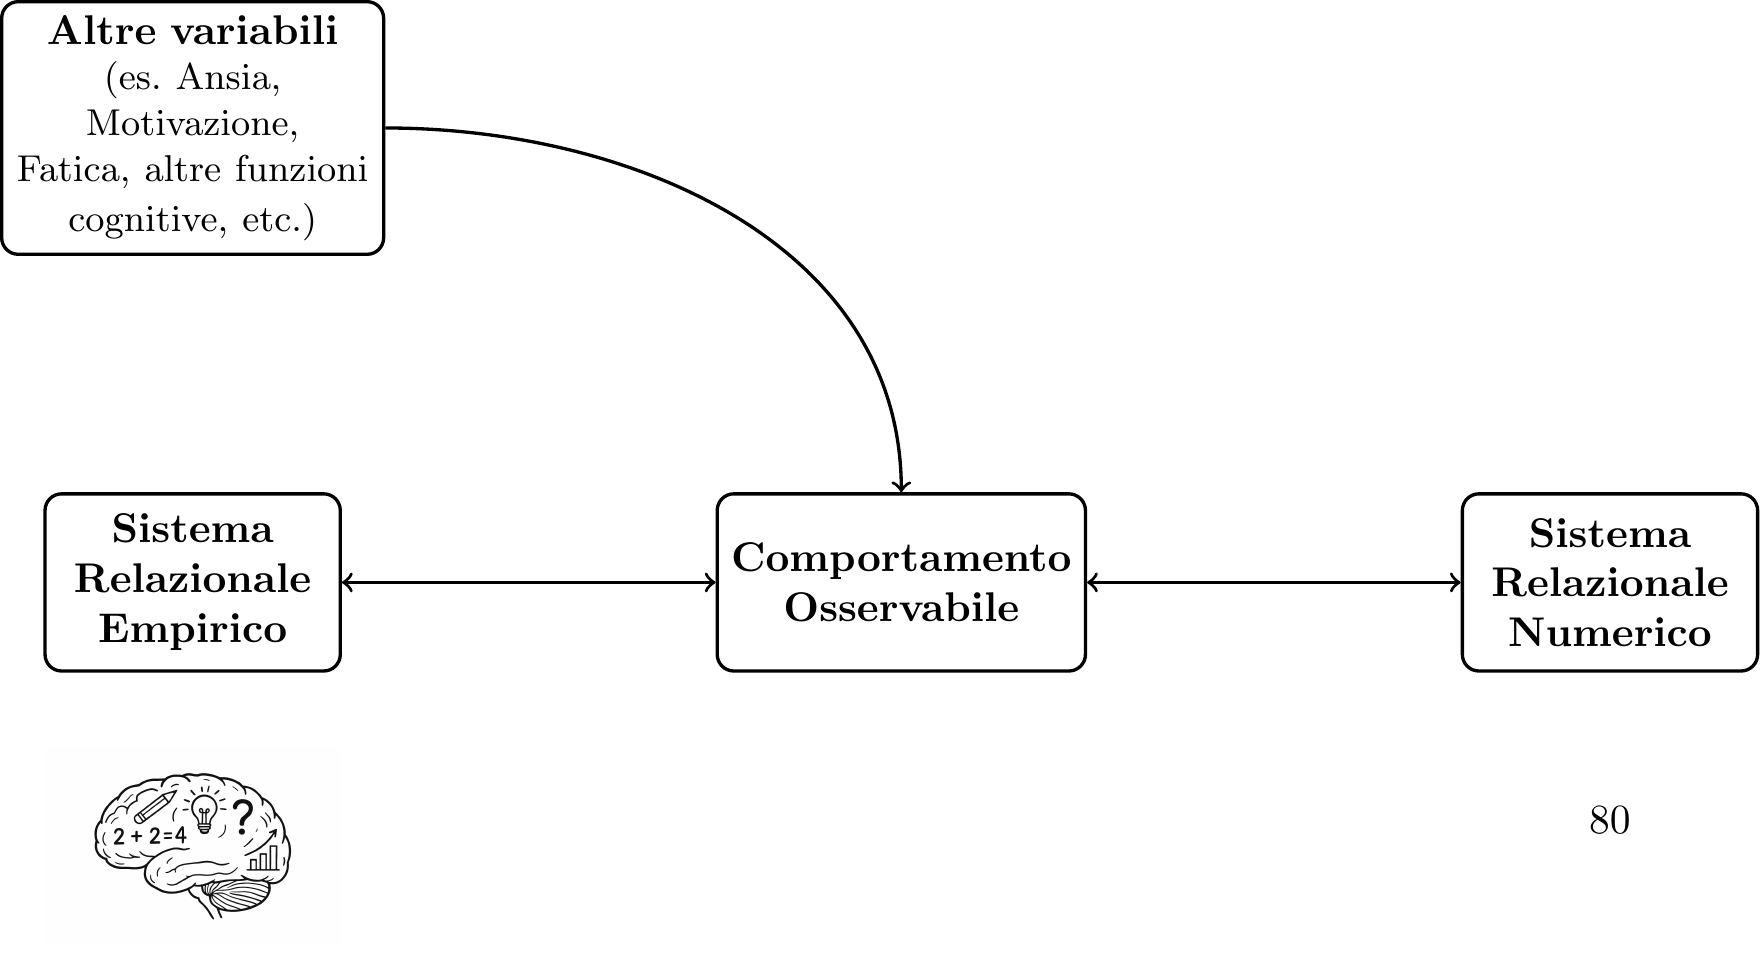
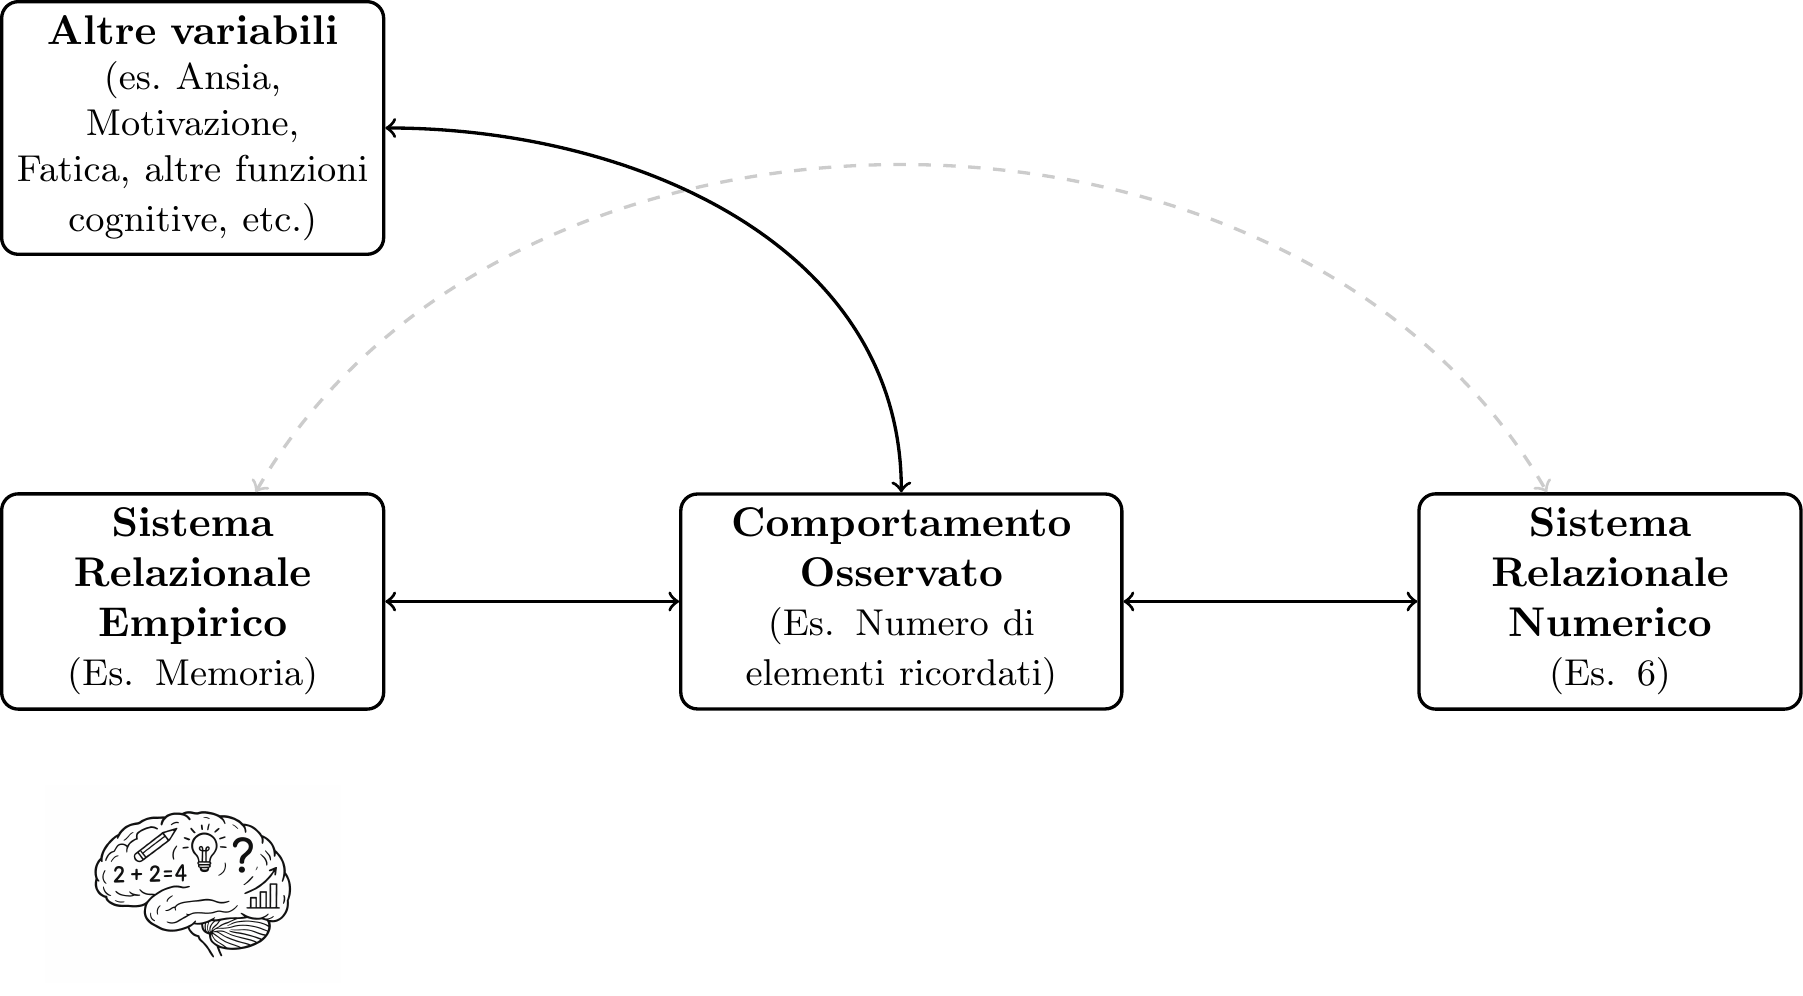
updated Latex Figures

diff --git a/Figures/Latex-Figure-Measurement-4/Fig_measurement_4.tex b/Figures/Latex-Figure-Measurement-4/Fig_measurement_4.tex
@@ -22,11 +22,17 @@
      cognitive, etc.)}};
 
 % Main horizontal blocks (A anchored below AV)
-\node[block1, below=2cm of AV] (A) {\textbf{Sistema}\\ \textbf{Relazionale}\\ \textbf{Empirico}};
+\node[block1, text width=3cm, below=2cm of AV] (A)
+    {\textbf{Sistema}\\ \textbf{Relazionale}\\ \textbf{Empirico}\\
+     {\small (Es. Memoria)}};
 
-\node[block1, right of=A, xshift=2cm] (B) {\textbf{Comportamento}\\ \textbf{Osservabile}};
+\node[block1, text width=3.5cm, right of=A, xshift=2cm] (B)
+    {\textbf{Comportamento}\\ \textbf{Osservato}\\
+     {\small (Es. Numero di elementi ricordati)}};
 
-\node[block1, right of=B, xshift=2cm] (C) {\textbf{Sistema}\\ \textbf{Relazionale}\\ \textbf{Numerico}};
+\node[block1, text width=3cm, right of=B, xshift=2cm] (C)
+    {\textbf{Sistema}\\ \textbf{Relazionale}\\ \textbf{Numerico}\\
+     {\small (Es. Punteggio al test)}};
 
 % Draw double arrows between main blocks
 \draw[<->, thick] (A) -- (B);
@@ -44,7 +50,7 @@
 \node[below=0.5cm of A] (A_image) {\includegraphics[width=2.5cm]{mind.png}};
 
 % Add label below node C
-\node[below=1cm of C] (C_label) {80};
+\node[below=1cm of C] (C_label) {22};
 
 \end{tikzpicture}
 

diff --git a/Figures/Latex-Figure-Measurement-2/Fig_measurement_2.tex b/Figures/Latex-Figure-Measurement-2/Fig_measurement_2.tex
@@ -26,7 +26,7 @@
 \node[below=0.5cm of A] (A_image) {\includegraphics[width=2.5cm]{mind.png}}; 
 
 % Add label below node B
-\node[below=1cm of B] (B_label) {80};
+\node[below=1cm of B] (B_label) {22};
 
 \end{tikzpicture}
 

diff --git a/Figures/Latex-Figure-Measurement-3/Fig_measurement_3.tex b/Figures/Latex-Figure-Measurement-3/Fig_measurement_3.tex
@@ -32,7 +32,7 @@
 \node[below=0.5cm of A] (A_image) {\includegraphics[width=2.5cm]{mind.png}};
 
 % Add label below node C
-\node[below=1cm of C] (C_label) {80};
+\node[below=1cm of C] (C_label) {22};
 
 \end{tikzpicture}
 
